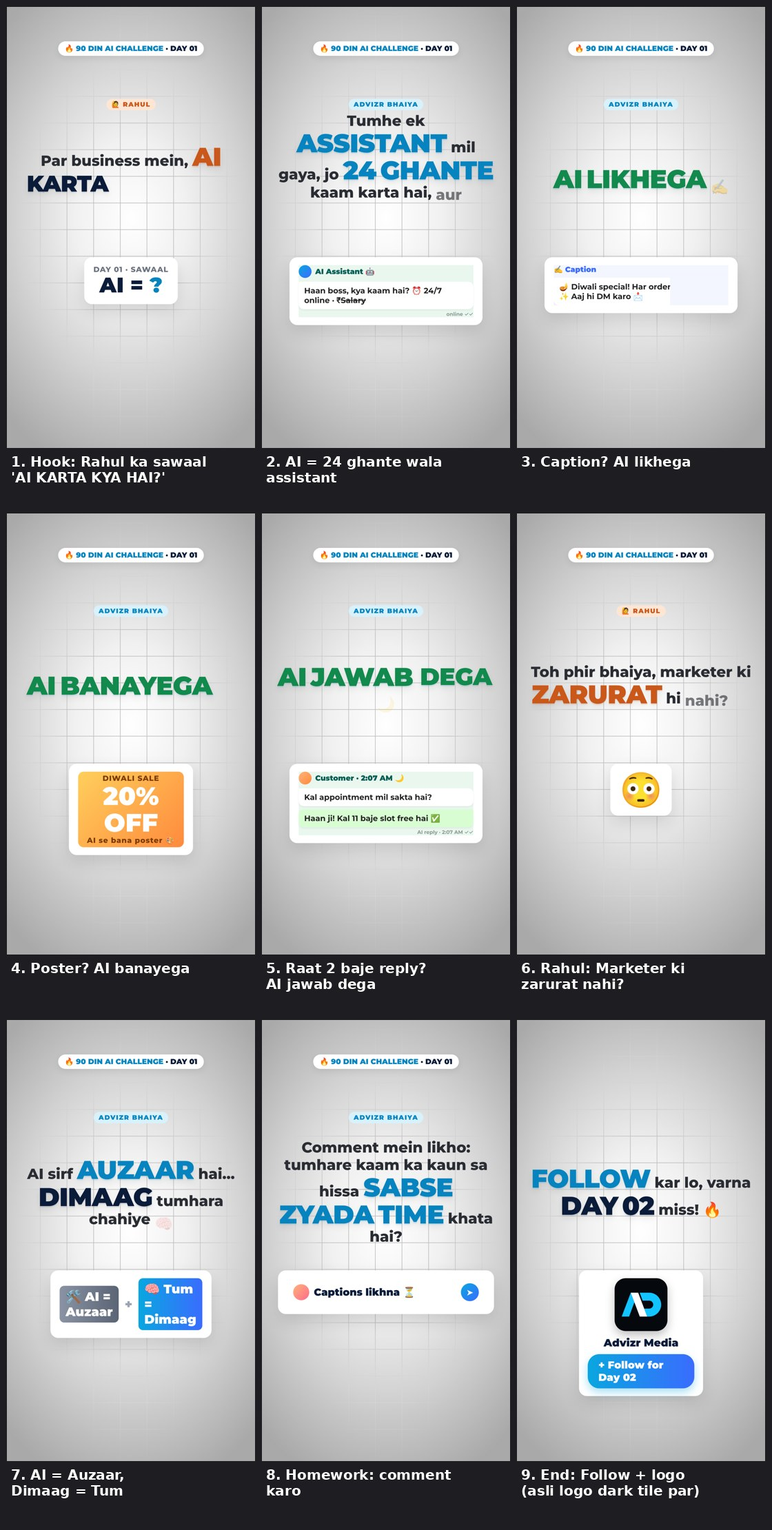
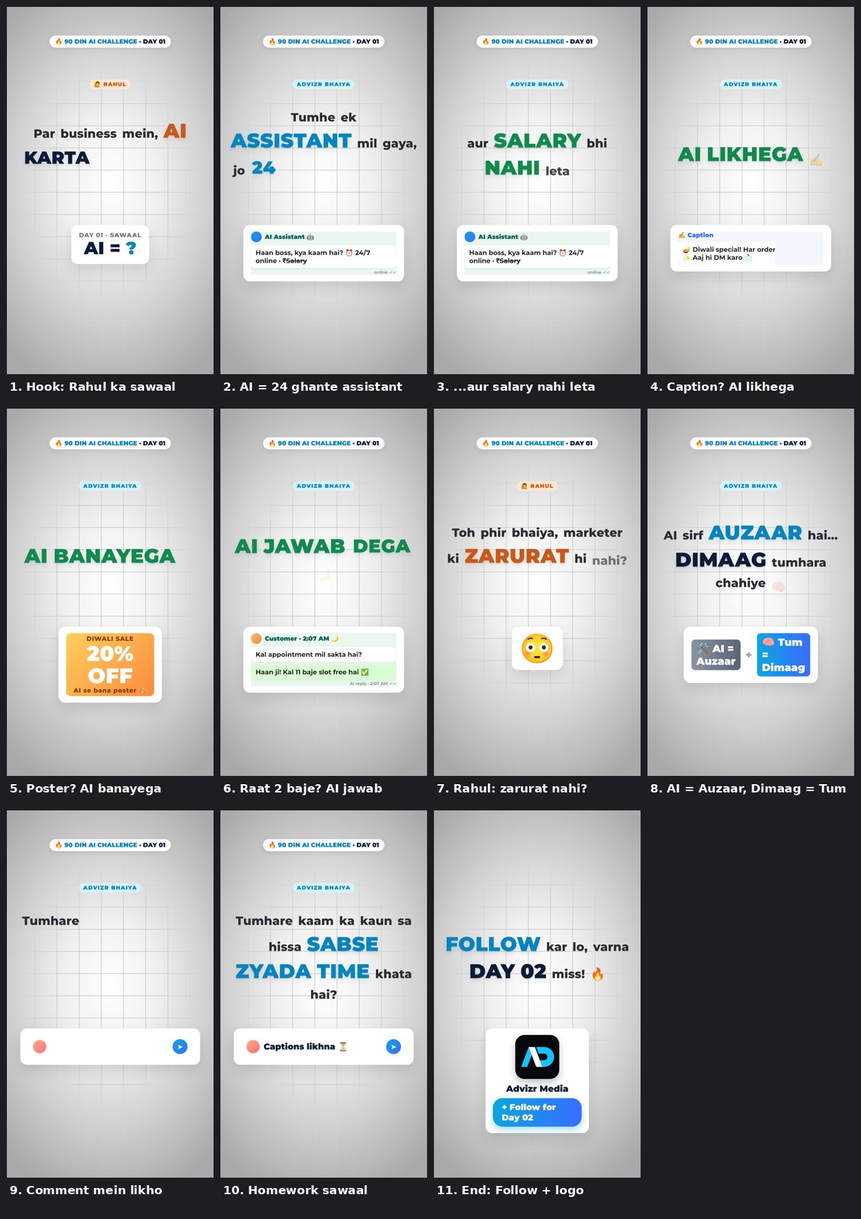
Day 1: more text spacing, split long phrases, updated storyboard
Claude-Session: https://claude.ai/code/session_017ZgdDbpTuAwDtUnpXNybdm

diff --git a/videos/advizr-ai-day01/index.html b/videos/advizr-ai-day01/index.html
@@ -20,16 +20,16 @@
       .grain { position: absolute; inset: 0; opacity: 0.25; background-image: radial-gradient(rgba(0,0,0,0.035) 1px, transparent 1.4px); background-size: 5px 5px; }
       .pill { position: absolute; left: 50%; top: 150px; transform: translateX(-50%); padding: 12px 28px; border-radius: 40px; background: #fff; box-shadow: 0 10px 30px rgba(0,0,0,0.08); font-weight: 900; font-size: 32px; color: var(--navy); white-space: nowrap; z-index: 5; }
       .pill b { color: var(--acc); }
-      .tb { position: absolute; left: 60px; right: 60px; top: 470px; height: 560px; display: flex; flex-wrap: wrap; align-content: center; justify-content: center; align-items: baseline; column-gap: 18px; row-gap: 4px; text-align: center; z-index: 4; }
-      .tb .w { display: inline-block; font-weight: 800; font-size: 64px; line-height: 1.12; color: var(--ink); }
-      .tb .w.k { font-weight: 900; font-size: 112px; line-height: 1.02; color: var(--acc); letter-spacing: -2px; text-shadow: 0 6px 0 rgba(7,132,191,0.12), 0 14px 30px rgba(0,0,0,0.08); }
+      .tb { position: absolute; left: 50px; right: 50px; top: 480px; height: 580px; display: flex; flex-wrap: wrap; align-content: center; justify-content: center; align-items: baseline; column-gap: 28px; row-gap: 22px; text-align: center; z-index: 4; }
+      .tb .w { display: inline-block; font-weight: 800; font-size: 62px; line-height: 1.3; letter-spacing: 0.5px; color: var(--ink); }
+      .tb .w.k { font-weight: 900; font-size: 104px; line-height: 1.15; color: var(--acc); letter-spacing: 1px; text-shadow: 0 6px 0 rgba(7,132,191,0.12), 0 14px 30px rgba(0,0,0,0.08); }
       .tb.r .w.k { color: var(--org); text-shadow: 0 6px 0 rgba(201,88,26,0.14), 0 14px 30px rgba(0,0,0,0.08); }
       .tb .w.k.n { color: var(--navy); text-shadow: 0 6px 0 rgba(11,27,58,0.1), 0 14px 30px rgba(0,0,0,0.08); }
       .tb .w.k.g { color: var(--green); }
-      .who { position: absolute; left: 50%; top: 400px; transform: translateX(-50%); padding: 8px 22px; border-radius: 30px; font-weight: 900; font-size: 28px; letter-spacing: 3px; z-index: 5; white-space: nowrap; }
+      .who { position: absolute; left: 50%; top: 380px; transform: translateX(-50%); padding: 8px 22px; border-radius: 30px; font-weight: 900; font-size: 28px; letter-spacing: 3px; z-index: 5; white-space: nowrap; }
       .who.r { background: #ffe6d4; color: var(--org); }
       .who.b { background: #d8f1fb; color: var(--acc); }
-      .card { position: absolute; left: 50%; top: 1090px; transform: translateX(-50%); background: #fff; border-radius: 34px; box-shadow: 0 30px 70px rgba(0,0,0,0.12), 0 2px 0 rgba(255,255,255,0.8) inset; padding: 34px 40px; z-index: 3; }
+      .card { position: absolute; left: 50%; top: 1140px; transform: translateX(-50%); background: #fff; border-radius: 34px; box-shadow: 0 30px 70px rgba(0,0,0,0.12), 0 2px 0 rgba(255,255,255,0.8) inset; padding: 34px 40px; z-index: 3; }
       .ct { text-align: center; }
       .ct .s { font-weight: 800; font-size: 32px; color: #6b7280; letter-spacing: 2px; }
       .ct .t { font-weight: 900; font-size: 92px; color: var(--navy); line-height: 1.05; }
@@ -81,19 +81,21 @@
       <div id="ph0" class="clip tb r" data-start="0.38" data-duration="2.94" data-track-index="4" style=""><span class="w" id="p0w0">Bhaiya,</span><span class="w" id="p0w1">sab</span><span class="w" id="p0w2">bol</span><span class="w" id="p0w3">rahe</span><span class="w" id="p0w4">hain:</span><span class="w k" id="p0w5">AI</span><span class="w k" id="p0w6">SEEKHO!</span></div>
       <div id="ph1" class="clip tb r" data-start="3.33" data-duration="2.48" data-track-index="4" style=""><span class="w" id="p1w0">Par</span><span class="w" id="p1w1">business</span><span class="w" id="p1w2">mein,</span><span class="w k" id="p1w3">AI</span><span class="w k n" id="p1w4">KARTA</span><span class="w k n" id="p1w5">KYA</span><span class="w k n" id="p1w6">HAI?</span><span class="w" id="p1w7">🤔</span></div>
       <div id="ph2" class="clip tb b" data-start="5.88" data-duration="0.75" data-track-index="4" style=""><span class="w k n" id="p2w0">SOCHO...</span></div>
-      <div id="ph3" class="clip tb b" data-start="6.64" data-duration="4.92" data-track-index="4" style=""><span class="w" id="p3w0">Tumhe</span><span class="w" id="p3w1">ek</span><span class="w k" id="p3w2">ASSISTANT</span><span class="w" id="p3w3">mil</span><span class="w" id="p3w4">gaya,</span><span class="w" id="p3w5">jo</span><span class="w k" id="p3w6">24</span><span class="w k" id="p3w7">GHANTE</span><span class="w" id="p3w8">kaam</span><span class="w" id="p3w9">karta</span><span class="w" id="p3w10">hai,</span><span class="w" id="p3w11">aur</span><span class="w k g" id="p3w12">SALARY</span><span class="w" id="p3w13">bhi</span><span class="w" id="p3w14">nahi</span><span class="w" id="p3w15">leta</span><span class="w" id="p3w16">😎</span></div>
-      <div id="ph4" class="clip tb b" data-start="11.63" data-duration="1.46" data-track-index="4" style=""><span class="w" id="p4w0">Post</span><span class="w" id="p4w1">ka</span><span class="w k" id="p4w2">CAPTION</span><span class="w" id="p4w3">likhna</span><span class="w" id="p4w4">hai?</span></div>
-      <div id="ph5" class="clip tb b" data-start="13.1" data-duration="0.92" data-track-index="4" style=""><span class="w k g" id="p5w0">AI</span><span class="w k g" id="p5w1">LIKHEGA</span><span class="w" id="p5w2">✍</span></div>
-      <div id="ph6" class="clip tb b" data-start="14.09" data-duration="1.73" data-track-index="4" style=""><span class="w" id="p6w0">Offer</span><span class="w" id="p6w1">ka</span><span class="w k" id="p6w2">POSTER</span><span class="w" id="p6w3">banana</span><span class="w" id="p6w4">hai?</span></div>
-      <div id="ph7" class="clip tb b" data-start="15.83" data-duration="0.97" data-track-index="4" style=""><span class="w k g" id="p7w0">AI</span><span class="w k g" id="p7w1">BANAYEGA</span><span class="w" id="p7w2">🎨</span></div>
-      <div id="ph8" class="clip tb b" data-start="16.87" data-duration="2.03" data-track-index="4" style=""><span class="w" id="p8w0">Raat</span><span class="w k" id="p8w1">2</span><span class="w k" id="p8w2">BAJE</span><span class="w" id="p8w3">customer</span><span class="w" id="p8w4">ka</span><span class="w" id="p8w5">message?</span></div>
-      <div id="ph9" class="clip tb b" data-start="18.91" data-duration="1.13" data-track-index="4" style=""><span class="w k g" id="p9w0">AI</span><span class="w k g" id="p9w1">JAWAB</span><span class="w k g" id="p9w2">DEGA</span><span class="w" id="p9w3">🌙</span></div>
-      <div id="ph10" class="clip tb r" data-start="20.11" data-duration="2.47" data-track-index="4" style=""><span class="w" id="p10w0">Toh</span><span class="w" id="p10w1">phir</span><span class="w" id="p10w2">bhaiya,</span><span class="w" id="p10w3">marketer</span><span class="w" id="p10w4">ki</span><span class="w k" id="p10w5">ZARURAT</span><span class="w" id="p10w6">hi</span><span class="w" id="p10w7">nahi?</span><span class="w" id="p10w8">😳</span></div>
-      <div id="ph11" class="clip tb b" data-start="22.65" data-duration="1.42" data-track-index="4" style=""><span class="w k n" id="p11w0">ZARURAT</span><span class="w k n" id="p11w1">HAI!</span></div>
-      <div id="ph12" class="clip tb b" data-start="24.08" data-duration="3.11" data-track-index="4" style=""><span class="w" id="p12w0">AI</span><span class="w" id="p12w1">sirf</span><span class="w k" id="p12w2">AUZAAR</span><span class="w" id="p12w3">hai...</span><span class="w k n" id="p12w4">DIMAAG</span><span class="w" id="p12w5">tumhara</span><span class="w" id="p12w6">chahiye</span><span class="w" id="p12w7">🧠</span></div>
-      <div id="ph13" class="clip tb b" data-start="27.26" data-duration="1.26" data-track-index="4" style=""><span class="w" id="p13w0">Aaj</span><span class="w" id="p13w1">ka</span><span class="w k" id="p13w2">HOMEWORK</span><span class="w" id="p13w3">📝</span></div>
-      <div id="ph14" class="clip tb b" data-start="28.53" data-duration="5.11" data-track-index="4" style=""><span class="w" id="p14w0">Comment</span><span class="w" id="p14w1">mein</span><span class="w" id="p14w2">likho:</span><span class="w" id="p14w3">tumhare</span><span class="w" id="p14w4">kaam</span><span class="w" id="p14w5">ka</span><span class="w" id="p14w6">kaun</span><span class="w" id="p14w7">sa</span><span class="w" id="p14w8">hissa</span><span class="w k" id="p14w9">SABSE</span><span class="w k" id="p14w10">ZYADA</span><span class="w k" id="p14w11">TIME</span><span class="w" id="p14w12">khata</span><span class="w" id="p14w13">hai?</span></div>
-      <div id="ph15" class="clip tb b" data-start="33.62" data-duration="3.02" data-track-index="4" style=""><span class="w k" id="p15w0">FOLLOW</span><span class="w" id="p15w1">kar</span><span class="w" id="p15w2">lo,</span><span class="w" id="p15w3">varna</span><span class="w k n" id="p15w4">DAY</span><span class="w k n" id="p15w5">02</span><span class="w" id="p15w6">miss!</span><span class="w" id="p15w7">🔥</span></div>
+      <div id="ph3" class="clip tb b" data-start="6.64" data-duration="3.43" data-track-index="4" style=""><span class="w" id="p3w0">Tumhe</span><span class="w" id="p3w1">ek</span><span class="w k" id="p3w2">ASSISTANT</span><span class="w" id="p3w3">mil</span><span class="w" id="p3w4">gaya,</span><span class="w" id="p3w5">jo</span><span class="w k" id="p3w6">24</span><span class="w k" id="p3w7">GHANTE</span><span class="w" id="p3w8">kaam</span><span class="w" id="p3w9">karta</span><span class="w" id="p3w10">hai</span></div>
+      <div id="ph4" class="clip tb b" data-start="10.08" data-duration="1.48" data-track-index="4" style=""><span class="w" id="p4w0">aur</span><span class="w k g" id="p4w1">SALARY</span><span class="w" id="p4w2">bhi</span><span class="w k g" id="p4w3">NAHI</span><span class="w" id="p4w4">leta</span><span class="w" id="p4w5">😎</span></div>
+      <div id="ph5" class="clip tb b" data-start="11.63" data-duration="1.46" data-track-index="4" style=""><span class="w" id="p5w0">Post</span><span class="w" id="p5w1">ka</span><span class="w k" id="p5w2">CAPTION</span><span class="w" id="p5w3">likhna</span><span class="w" id="p5w4">hai?</span></div>
+      <div id="ph6" class="clip tb b" data-start="13.1" data-duration="0.92" data-track-index="4" style=""><span class="w k g" id="p6w0">AI</span><span class="w k g" id="p6w1">LIKHEGA</span><span class="w" id="p6w2">✍</span></div>
+      <div id="ph7" class="clip tb b" data-start="14.09" data-duration="1.73" data-track-index="4" style=""><span class="w" id="p7w0">Offer</span><span class="w" id="p7w1">ka</span><span class="w k" id="p7w2">POSTER</span><span class="w" id="p7w3">banana</span><span class="w" id="p7w4">hai?</span></div>
+      <div id="ph8" class="clip tb b" data-start="15.83" data-duration="0.97" data-track-index="4" style=""><span class="w k g" id="p8w0">AI</span><span class="w k g" id="p8w1">BANAYEGA</span><span class="w" id="p8w2">🎨</span></div>
+      <div id="ph9" class="clip tb b" data-start="16.87" data-duration="2.03" data-track-index="4" style=""><span class="w" id="p9w0">Raat</span><span class="w k" id="p9w1">2</span><span class="w k" id="p9w2">BAJE</span><span class="w" id="p9w3">customer</span><span class="w" id="p9w4">ka</span><span class="w" id="p9w5">message?</span></div>
+      <div id="ph10" class="clip tb b" data-start="18.91" data-duration="1.13" data-track-index="4" style=""><span class="w k g" id="p10w0">AI</span><span class="w k g" id="p10w1">JAWAB</span><span class="w k g" id="p10w2">DEGA</span><span class="w" id="p10w3">🌙</span></div>
+      <div id="ph11" class="clip tb r" data-start="20.11" data-duration="2.47" data-track-index="4" style=""><span class="w" id="p11w0">Toh</span><span class="w" id="p11w1">phir</span><span class="w" id="p11w2">bhaiya,</span><span class="w" id="p11w3">marketer</span><span class="w" id="p11w4">ki</span><span class="w k" id="p11w5">ZARURAT</span><span class="w" id="p11w6">hi</span><span class="w" id="p11w7">nahi?</span><span class="w" id="p11w8">😳</span></div>
+      <div id="ph12" class="clip tb b" data-start="22.65" data-duration="1.42" data-track-index="4" style=""><span class="w k n" id="p12w0">ZARURAT</span><span class="w k n" id="p12w1">HAI!</span></div>
+      <div id="ph13" class="clip tb b" data-start="24.08" data-duration="3.11" data-track-index="4" style=""><span class="w" id="p13w0">AI</span><span class="w" id="p13w1">sirf</span><span class="w k" id="p13w2">AUZAAR</span><span class="w" id="p13w3">hai...</span><span class="w k n" id="p13w4">DIMAAG</span><span class="w" id="p13w5">tumhara</span><span class="w" id="p13w6">chahiye</span><span class="w" id="p13w7">🧠</span></div>
+      <div id="ph14" class="clip tb b" data-start="27.26" data-duration="1.26" data-track-index="4" style=""><span class="w" id="p14w0">Aaj</span><span class="w" id="p14w1">ka</span><span class="w k" id="p14w2">HOMEWORK</span><span class="w" id="p14w3">📝</span></div>
+      <div id="ph15" class="clip tb b" data-start="28.53" data-duration="1.1" data-track-index="4" style=""><span class="w" id="p15w0">Comment</span><span class="w" id="p15w1">mein</span><span class="w" id="p15w2">likho</span><span class="w" id="p15w3">👇</span></div>
+      <div id="ph16" class="clip tb b" data-start="29.64" data-duration="4.0" data-track-index="4" style=""><span class="w" id="p16w0">Tumhare</span><span class="w" id="p16w1">kaam</span><span class="w" id="p16w2">ka</span><span class="w" id="p16w3">kaun</span><span class="w" id="p16w4">sa</span><span class="w" id="p16w5">hissa</span><span class="w k" id="p16w6">SABSE</span><span class="w k" id="p16w7">ZYADA</span><span class="w k" id="p16w8">TIME</span><span class="w" id="p16w9">khata</span><span class="w" id="p16w10">hai?</span></div>
+      <div id="ph17" class="clip tb b" data-start="33.62" data-duration="3.02" data-track-index="4" style=""><span class="w k" id="p17w0">FOLLOW</span><span class="w" id="p17w1">kar</span><span class="w" id="p17w2">lo,</span><span class="w" id="p17w3">varna</span><span class="w k n" id="p17w4">DAY</span><span class="w k n" id="p17w5">02</span><span class="w" id="p17w6">miss!</span><span class="w" id="p17w7">🔥</span></div>
       <div id="cd0" class="clip card" data-start="3.6" data-duration="3.26" data-track-index="3" style=""><div class="ct"><div class="s">DAY 01 · SAWAAL</div><div class="t">AI = <b>?</b></div></div></div>
       <div id="cd1" class="clip card" data-start="6.91" data-duration="4.94" data-track-index="3" style=""><div class="wa"><div class="hd"><div class="av" style="background:linear-gradient(135deg,#0aa6e0,#3a6cff)"></div>AI Assistant 🤖</div><div class="msg">Haan boss, kya kaam hai? ⏰ 24/7 online · ₹<s>Salary</s></div><div class="tm">online ✓✓</div></div></div>
       <div id="cd2" class="clip card" data-start="11.9" data-duration="2.41" data-track-index="3" style=""><div class="wa" style="background:#f3f6ff"><div class="hd" style="color:#3a6cff">✍ Caption</div><div class="msg" id="cap1">🪔 Diwali special! Har order pe 10% OFF ✨ Aaj hi DM karo 📩</div></div></div>
@@ -122,40 +124,41 @@
       <audio id="sfx-p6" src="assets/sfx/pop.wav" data-start="4.94" data-duration="0.18" data-track-index="41" data-volume="0.12"></audio>
       <audio id="sfx-p7" src="assets/sfx/pop.wav" data-start="5.9" data-duration="0.18" data-track-index="42" data-volume="0.12"></audio>
       <audio id="sfx-p8" src="assets/sfx/pop.wav" data-start="6.91" data-duration="0.18" data-track-index="43" data-volume="0.12"></audio>
-      <audio id="sfx-p9" src="assets/sfx/pop.wav" data-start="7.1" data-duration="0.18" data-track-index="41" data-volume="0.12"></audio>
-      <audio id="sfx-p10" src="assets/sfx/pop.wav" data-start="8.19" data-duration="0.18" data-track-index="42" data-volume="0.12"></audio>
-      <audio id="sfx-p11" src="assets/sfx/pop.wav" data-start="8.35" data-duration="0.18" data-track-index="43" data-volume="0.12"></audio>
-      <audio id="sfx-p12" src="assets/sfx/pop.wav" data-start="9.64" data-duration="0.18" data-track-index="41" data-volume="0.12"></audio>
-      <audio id="sfx-p13" src="assets/sfx/pop.wav" data-start="11.9" data-duration="0.18" data-track-index="42" data-volume="0.12"></audio>
-      <audio id="sfx-p14" src="assets/sfx/pop.wav" data-start="12.04" data-duration="0.18" data-track-index="43" data-volume="0.12"></audio>
-      <audio id="sfx-p15" src="assets/sfx/pop.wav" data-start="13.12" data-duration="0.18" data-track-index="41" data-volume="0.12"></audio>
-      <audio id="sfx-p16" src="assets/sfx/pop.wav" data-start="13.26" data-duration="0.18" data-track-index="42" data-volume="0.12"></audio>
-      <audio id="sfx-p17" src="assets/sfx/pop.wav" data-start="14.36" data-duration="0.18" data-track-index="43" data-volume="0.12"></audio>
-      <audio id="sfx-p18" src="assets/sfx/pop.wav" data-start="14.62" data-duration="0.18" data-track-index="41" data-volume="0.12"></audio>
-      <audio id="sfx-p19" src="assets/sfx/pop.wav" data-start="15.85" data-duration="0.18" data-track-index="42" data-volume="0.12"></audio>
-      <audio id="sfx-p20" src="assets/sfx/pop.wav" data-start="16.0" data-duration="0.18" data-track-index="43" data-volume="0.12"></audio>
-      <audio id="sfx-p21" src="assets/sfx/pop.wav" data-start="17.14" data-duration="0.18" data-track-index="41" data-volume="0.12"></audio>
-      <audio id="sfx-p22" src="assets/sfx/pop.wav" data-start="17.17" data-duration="0.18" data-track-index="42" data-volume="0.12"></audio>
-      <audio id="sfx-p23" src="assets/sfx/pop.wav" data-start="17.3" data-duration="0.18" data-track-index="43" data-volume="0.12"></audio>
-      <audio id="sfx-p24" src="assets/sfx/pop.wav" data-start="18.93" data-duration="0.18" data-track-index="41" data-volume="0.12"></audio>
-      <audio id="sfx-p25" src="assets/sfx/pop.wav" data-start="19.08" data-duration="0.18" data-track-index="42" data-volume="0.12"></audio>
-      <audio id="sfx-p26" src="assets/sfx/pop.wav" data-start="19.36" data-duration="0.18" data-track-index="43" data-volume="0.12"></audio>
-      <audio id="sfx-p27" src="assets/sfx/pop.wav" data-start="20.38" data-duration="0.18" data-track-index="41" data-volume="0.12"></audio>
-      <audio id="sfx-p28" src="assets/sfx/pop.wav" data-start="21.3" data-duration="0.18" data-track-index="42" data-volume="0.12"></audio>
-      <audio id="sfx-p29" src="assets/sfx/pop.wav" data-start="22.67" data-duration="0.18" data-track-index="43" data-volume="0.12"></audio>
-      <audio id="sfx-p30" src="assets/sfx/pop.wav" data-start="23.43" data-duration="0.18" data-track-index="41" data-volume="0.12"></audio>
-      <audio id="sfx-p31" src="assets/sfx/pop.wav" data-start="24.35" data-duration="0.18" data-track-index="42" data-volume="0.12"></audio>
-      <audio id="sfx-p32" src="assets/sfx/pop.wav" data-start="24.56" data-duration="0.18" data-track-index="43" data-volume="0.12"></audio>
-      <audio id="sfx-p33" src="assets/sfx/pop.wav" data-start="25.29" data-duration="0.18" data-track-index="41" data-volume="0.12"></audio>
-      <audio id="sfx-p34" src="assets/sfx/pop.wav" data-start="27.74" data-duration="0.18" data-track-index="42" data-volume="0.12"></audio>
-      <audio id="sfx-p35" src="assets/sfx/pop.wav" data-start="28.8" data-duration="0.18" data-track-index="43" data-volume="0.12"></audio>
-      <audio id="sfx-p36" src="assets/sfx/pop.wav" data-start="31.26" data-duration="0.18" data-track-index="41" data-volume="0.12"></audio>
-      <audio id="sfx-p37" src="assets/sfx/pop.wav" data-start="31.59" data-duration="0.18" data-track-index="42" data-volume="0.12"></audio>
-      <audio id="sfx-p38" src="assets/sfx/pop.wav" data-start="31.91" data-duration="0.18" data-track-index="43" data-volume="0.12"></audio>
-      <audio id="sfx-p39" src="assets/sfx/pop.wav" data-start="33.64" data-duration="0.18" data-track-index="41" data-volume="0.12"></audio>
-      <audio id="sfx-p40" src="assets/sfx/pop.wav" data-start="33.89" data-duration="0.18" data-track-index="42" data-volume="0.12"></audio>
-      <audio id="sfx-p41" src="assets/sfx/pop.wav" data-start="34.24" data-duration="0.18" data-track-index="43" data-volume="0.12"></audio>
-      <audio id="sfx-p42" src="assets/sfx/pop.wav" data-start="34.36" data-duration="0.18" data-track-index="41" data-volume="0.12"></audio>
+      <audio id="sfx-p9" src="assets/sfx/pop.wav" data-start="7.15" data-duration="0.18" data-track-index="41" data-volume="0.12"></audio>
+      <audio id="sfx-p10" src="assets/sfx/pop.wav" data-start="8.35" data-duration="0.18" data-track-index="42" data-volume="0.12"></audio>
+      <audio id="sfx-p11" src="assets/sfx/pop.wav" data-start="8.53" data-duration="0.18" data-track-index="43" data-volume="0.12"></audio>
+      <audio id="sfx-p12" src="assets/sfx/pop.wav" data-start="10.26" data-duration="0.18" data-track-index="41" data-volume="0.12"></audio>
+      <audio id="sfx-p13" src="assets/sfx/pop.wav" data-start="10.69" data-duration="0.18" data-track-index="42" data-volume="0.12"></audio>
+      <audio id="sfx-p14" src="assets/sfx/pop.wav" data-start="11.9" data-duration="0.18" data-track-index="43" data-volume="0.12"></audio>
+      <audio id="sfx-p15" src="assets/sfx/pop.wav" data-start="12.04" data-duration="0.18" data-track-index="41" data-volume="0.12"></audio>
+      <audio id="sfx-p16" src="assets/sfx/pop.wav" data-start="13.12" data-duration="0.18" data-track-index="42" data-volume="0.12"></audio>
+      <audio id="sfx-p17" src="assets/sfx/pop.wav" data-start="13.26" data-duration="0.18" data-track-index="43" data-volume="0.12"></audio>
+      <audio id="sfx-p18" src="assets/sfx/pop.wav" data-start="14.36" data-duration="0.18" data-track-index="41" data-volume="0.12"></audio>
+      <audio id="sfx-p19" src="assets/sfx/pop.wav" data-start="14.62" data-duration="0.18" data-track-index="42" data-volume="0.12"></audio>
+      <audio id="sfx-p20" src="assets/sfx/pop.wav" data-start="15.85" data-duration="0.18" data-track-index="43" data-volume="0.12"></audio>
+      <audio id="sfx-p21" src="assets/sfx/pop.wav" data-start="16.0" data-duration="0.18" data-track-index="41" data-volume="0.12"></audio>
+      <audio id="sfx-p22" src="assets/sfx/pop.wav" data-start="17.14" data-duration="0.18" data-track-index="42" data-volume="0.12"></audio>
+      <audio id="sfx-p23" src="assets/sfx/pop.wav" data-start="17.17" data-duration="0.18" data-track-index="43" data-volume="0.12"></audio>
+      <audio id="sfx-p24" src="assets/sfx/pop.wav" data-start="17.3" data-duration="0.18" data-track-index="41" data-volume="0.12"></audio>
+      <audio id="sfx-p25" src="assets/sfx/pop.wav" data-start="18.93" data-duration="0.18" data-track-index="42" data-volume="0.12"></audio>
+      <audio id="sfx-p26" src="assets/sfx/pop.wav" data-start="19.08" data-duration="0.18" data-track-index="43" data-volume="0.12"></audio>
+      <audio id="sfx-p27" src="assets/sfx/pop.wav" data-start="19.36" data-duration="0.18" data-track-index="41" data-volume="0.12"></audio>
+      <audio id="sfx-p28" src="assets/sfx/pop.wav" data-start="20.38" data-duration="0.18" data-track-index="42" data-volume="0.12"></audio>
+      <audio id="sfx-p29" src="assets/sfx/pop.wav" data-start="21.3" data-duration="0.18" data-track-index="43" data-volume="0.12"></audio>
+      <audio id="sfx-p30" src="assets/sfx/pop.wav" data-start="22.67" data-duration="0.18" data-track-index="41" data-volume="0.12"></audio>
+      <audio id="sfx-p31" src="assets/sfx/pop.wav" data-start="23.43" data-duration="0.18" data-track-index="42" data-volume="0.12"></audio>
+      <audio id="sfx-p32" src="assets/sfx/pop.wav" data-start="24.35" data-duration="0.18" data-track-index="43" data-volume="0.12"></audio>
+      <audio id="sfx-p33" src="assets/sfx/pop.wav" data-start="24.56" data-duration="0.18" data-track-index="41" data-volume="0.12"></audio>
+      <audio id="sfx-p34" src="assets/sfx/pop.wav" data-start="25.29" data-duration="0.18" data-track-index="42" data-volume="0.12"></audio>
+      <audio id="sfx-p35" src="assets/sfx/pop.wav" data-start="27.74" data-duration="0.18" data-track-index="43" data-volume="0.12"></audio>
+      <audio id="sfx-p36" src="assets/sfx/pop.wav" data-start="28.8" data-duration="0.18" data-track-index="41" data-volume="0.12"></audio>
+      <audio id="sfx-p37" src="assets/sfx/pop.wav" data-start="31.36" data-duration="0.18" data-track-index="42" data-volume="0.12"></audio>
+      <audio id="sfx-p38" src="assets/sfx/pop.wav" data-start="31.69" data-duration="0.18" data-track-index="43" data-volume="0.12"></audio>
+      <audio id="sfx-p39" src="assets/sfx/pop.wav" data-start="32.02" data-duration="0.18" data-track-index="41" data-volume="0.12"></audio>
+      <audio id="sfx-p40" src="assets/sfx/pop.wav" data-start="33.64" data-duration="0.18" data-track-index="42" data-volume="0.12"></audio>
+      <audio id="sfx-p41" src="assets/sfx/pop.wav" data-start="33.89" data-duration="0.18" data-track-index="43" data-volume="0.12"></audio>
+      <audio id="sfx-p42" src="assets/sfx/pop.wav" data-start="34.24" data-duration="0.18" data-track-index="41" data-volume="0.12"></audio>
+      <audio id="sfx-p43" src="assets/sfx/pop.wav" data-start="34.36" data-duration="0.18" data-track-index="42" data-volume="0.12"></audio>
     </div>
     <script>
       window.__timelines = window.__timelines || {};
@@ -185,93 +188,94 @@
       tl.fromTo("#p1w7",{opacity:0,y:26},{opacity:1,y:0,duration:0.22,ease:"power2.out"},5.19);
       tl.fromTo("#p2w0",{opacity:0,scale:1.8,y:10},{opacity:1,scale:1,y:0,duration:0.32,ease:"back.out(2.2)"},5.9);
       tl.fromTo("#p3w0",{opacity:0,y:26},{opacity:1,y:0,duration:0.22,ease:"power2.out"},6.66);
-      tl.fromTo("#p3w1",{opacity:0,y:26},{opacity:1,y:0,duration:0.22,ease:"power2.out"},6.94);
-      tl.fromTo("#p3w2",{opacity:0,scale:1.8,y:10},{opacity:1,scale:1,y:0,duration:0.32,ease:"back.out(2.2)"},7.1);
-      tl.fromTo("#p3w3",{opacity:0,y:26},{opacity:1,y:0,duration:0.22,ease:"power2.out"},7.55);
-      tl.fromTo("#p3w4",{opacity:0,y:26},{opacity:1,y:0,duration:0.22,ease:"power2.out"},7.75);
-      tl.fromTo("#p3w5",{opacity:0,y:26},{opacity:1,y:0,duration:0.22,ease:"power2.out"},8.03);
-      tl.fromTo("#p3w6",{opacity:0,scale:1.8,y:10},{opacity:1,scale:1,y:0,duration:0.32,ease:"back.out(2.2)"},8.19);
-      tl.fromTo("#p3w7",{opacity:0,scale:1.8,y:10},{opacity:1,scale:1,y:0,duration:0.32,ease:"back.out(2.2)"},8.35);
-      tl.fromTo("#p3w8",{opacity:0,y:26},{opacity:1,y:0,duration:0.22,ease:"power2.out"},8.67);
-      tl.fromTo("#p3w9",{opacity:0,y:26},{opacity:1,y:0,duration:0.22,ease:"power2.out"},8.92);
-      tl.fromTo("#p3w10",{opacity:0,y:26},{opacity:1,y:0,duration:0.22,ease:"power2.out"},9.2);
-      tl.fromTo("#p3w11",{opacity:0,y:26},{opacity:1,y:0,duration:0.22,ease:"power2.out"},9.44);
-      tl.fromTo("#p3w12",{opacity:0,scale:1.8,y:10},{opacity:1,scale:1,y:0,duration:0.32,ease:"back.out(2.2)"},9.64);
-      tl.fromTo("#p3w13",{opacity:0,y:26},{opacity:1,y:0,duration:0.22,ease:"power2.out"},9.96);
-      tl.fromTo("#p3w14",{opacity:0,y:26},{opacity:1,y:0,duration:0.22,ease:"power2.out"},10.17);
-      tl.fromTo("#p3w15",{opacity:0,y:26},{opacity:1,y:0,duration:0.22,ease:"power2.out"},10.41);
-      tl.fromTo("#p3w16",{opacity:0,y:26},{opacity:1,y:0,duration:0.22,ease:"power2.out"},10.65);
-      tl.fromTo("#p4w0",{opacity:0,y:26},{opacity:1,y:0,duration:0.22,ease:"power2.out"},11.65);
-      tl.fromTo("#p4w1",{opacity:0,y:26},{opacity:1,y:0,duration:0.22,ease:"power2.out"},11.89);
-      tl.fromTo("#p4w2",{opacity:0,scale:1.8,y:10},{opacity:1,scale:1,y:0,duration:0.32,ease:"back.out(2.2)"},12.04);
-      tl.fromTo("#p4w3",{opacity:0,y:26},{opacity:1,y:0,duration:0.22,ease:"power2.out"},12.39);
-      tl.fromTo("#p4w4",{opacity:0,y:26},{opacity:1,y:0,duration:0.22,ease:"power2.out"},12.71);
-      tl.fromTo("#p5w0",{opacity:0,scale:1.8,y:10},{opacity:1,scale:1,y:0,duration:0.32,ease:"back.out(2.2)"},13.12);
-      tl.fromTo("#p5w1",{opacity:0,scale:1.8,y:10},{opacity:1,scale:1,y:0,duration:0.32,ease:"back.out(2.2)"},13.26);
-      tl.fromTo("#p5w2",{opacity:0,y:26},{opacity:1,y:0,duration:0.22,ease:"power2.out"},13.57);
-      tl.fromTo("#p6w0",{opacity:0,y:26},{opacity:1,y:0,duration:0.22,ease:"power2.out"},14.11);
-      tl.fromTo("#p6w1",{opacity:0,y:26},{opacity:1,y:0,duration:0.22,ease:"power2.out"},14.43);
-      tl.fromTo("#p6w2",{opacity:0,scale:1.8,y:10},{opacity:1,scale:1,y:0,duration:0.32,ease:"back.out(2.2)"},14.62);
-      tl.fromTo("#p6w3",{opacity:0,y:26},{opacity:1,y:0,duration:0.22,ease:"power2.out"},14.99);
-      tl.fromTo("#p6w4",{opacity:0,y:26},{opacity:1,y:0,duration:0.22,ease:"power2.out"},15.36);
-      tl.fromTo("#p7w0",{opacity:0,scale:1.8,y:10},{opacity:1,scale:1,y:0,duration:0.32,ease:"back.out(2.2)"},15.85);
-      tl.fromTo("#p7w1",{opacity:0,scale:1.8,y:10},{opacity:1,scale:1,y:0,duration:0.32,ease:"back.out(2.2)"},16.0);
-      tl.fromTo("#p7w2",{opacity:0,y:26},{opacity:1,y:0,duration:0.22,ease:"power2.out"},16.37);
-      tl.fromTo("#p8w0",{opacity:0,y:26},{opacity:1,y:0,duration:0.22,ease:"power2.out"},16.89);
-      tl.fromTo("#p8w1",{opacity:0,scale:1.8,y:10},{opacity:1,scale:1,y:0,duration:0.32,ease:"back.out(2.2)"},17.17);
-      tl.fromTo("#p8w2",{opacity:0,scale:1.8,y:10},{opacity:1,scale:1,y:0,duration:0.32,ease:"back.out(2.2)"},17.3);
-      tl.fromTo("#p8w3",{opacity:0,y:26},{opacity:1,y:0,duration:0.22,ease:"power2.out"},17.58);
-      tl.fromTo("#p8w4",{opacity:0,y:26},{opacity:1,y:0,duration:0.22,ease:"power2.out"},18.04);
-      tl.fromTo("#p8w5",{opacity:0,y:26},{opacity:1,y:0,duration:0.22,ease:"power2.out"},18.22);
-      tl.fromTo("#p9w0",{opacity:0,scale:1.8,y:10},{opacity:1,scale:1,y:0,duration:0.32,ease:"back.out(2.2)"},18.93);
-      tl.fromTo("#p9w1",{opacity:0,scale:1.8,y:10},{opacity:1,scale:1,y:0,duration:0.32,ease:"back.out(2.2)"},19.08);
-      tl.fromTo("#p9w2",{opacity:0,scale:1.8,y:10},{opacity:1,scale:1,y:0,duration:0.32,ease:"back.out(2.2)"},19.36);
-      tl.fromTo("#p9w3",{opacity:0,y:26},{opacity:1,y:0,duration:0.22,ease:"power2.out"},19.59);
-      tl.fromTo("#p10w0",{opacity:0,y:26},{opacity:1,y:0,duration:0.22,ease:"power2.out"},20.13);
-      tl.fromTo("#p10w1",{opacity:0,y:26},{opacity:1,y:0,duration:0.22,ease:"power2.out"},20.3);
-      tl.fromTo("#p10w2",{opacity:0,y:26},{opacity:1,y:0,duration:0.22,ease:"power2.out"},20.51);
-      tl.fromTo("#p10w3",{opacity:0,y:26},{opacity:1,y:0,duration:0.22,ease:"power2.out"},20.82);
-      tl.fromTo("#p10w4",{opacity:0,y:26},{opacity:1,y:0,duration:0.22,ease:"power2.out"},21.16);
-      tl.fromTo("#p10w5",{opacity:0,scale:1.8,y:10},{opacity:1,scale:1,y:0,duration:0.32,ease:"back.out(2.2)"},21.3);
-      tl.fromTo("#p10w6",{opacity:0,y:26},{opacity:1,y:0,duration:0.22,ease:"power2.out"},21.6);
-      tl.fromTo("#p10w7",{opacity:0,y:26},{opacity:1,y:0,duration:0.22,ease:"power2.out"},21.74);
-      tl.fromTo("#p10w8",{opacity:0,y:26},{opacity:1,y:0,duration:0.22,ease:"power2.out"},21.98);
-      tl.fromTo("#p11w0",{opacity:0,scale:1.8,y:10},{opacity:1,scale:1,y:0,duration:0.32,ease:"back.out(2.2)"},22.67);
-      tl.fromTo("#p11w1",{opacity:0,scale:1.8,y:10},{opacity:1,scale:1,y:0,duration:0.32,ease:"back.out(2.2)"},23.43);
-      tl.fromTo("#p12w0",{opacity:0,y:26},{opacity:1,y:0,duration:0.22,ease:"power2.out"},24.1);
-      tl.fromTo("#p12w1",{opacity:0,y:26},{opacity:1,y:0,duration:0.22,ease:"power2.out"},24.28);
-      tl.fromTo("#p12w2",{opacity:0,scale:1.8,y:10},{opacity:1,scale:1,y:0,duration:0.32,ease:"back.out(2.2)"},24.56);
-      tl.fromTo("#p12w3",{opacity:0,y:26},{opacity:1,y:0,duration:0.22,ease:"power2.out"},24.92);
-      tl.fromTo("#p12w4",{opacity:0,scale:1.8,y:10},{opacity:1,scale:1,y:0,duration:0.32,ease:"back.out(2.2)"},25.29);
-      tl.fromTo("#p12w5",{opacity:0,y:26},{opacity:1,y:0,duration:0.22,ease:"power2.out"},25.66);
-      tl.fromTo("#p12w6",{opacity:0,y:26},{opacity:1,y:0,duration:0.22,ease:"power2.out"},26.07);
-      tl.fromTo("#p12w7",{opacity:0,y:26},{opacity:1,y:0,duration:0.22,ease:"power2.out"},26.48);
-      tl.fromTo("#p13w0",{opacity:0,y:26},{opacity:1,y:0,duration:0.22,ease:"power2.out"},27.28);
-      tl.fromTo("#p13w1",{opacity:0,y:26},{opacity:1,y:0,duration:0.22,ease:"power2.out"},27.53);
-      tl.fromTo("#p13w2",{opacity:0,scale:1.8,y:10},{opacity:1,scale:1,y:0,duration:0.32,ease:"back.out(2.2)"},27.74);
-      tl.fromTo("#p13w3",{opacity:0,y:26},{opacity:1,y:0,duration:0.22,ease:"power2.out"},28.25);
-      tl.fromTo("#p14w0",{opacity:0,y:26},{opacity:1,y:0,duration:0.22,ease:"power2.out"},28.55);
-      tl.fromTo("#p14w1",{opacity:0,y:26},{opacity:1,y:0,duration:0.22,ease:"power2.out"},28.96);
-      tl.fromTo("#p14w2",{opacity:0,y:26},{opacity:1,y:0,duration:0.22,ease:"power2.out"},29.24);
-      tl.fromTo("#p14w3",{opacity:0,y:26},{opacity:1,y:0,duration:0.22,ease:"power2.out"},29.61);
-      tl.fromTo("#p14w4",{opacity:0,y:26},{opacity:1,y:0,duration:0.22,ease:"power2.out"},30.02);
-      tl.fromTo("#p14w5",{opacity:0,y:26},{opacity:1,y:0,duration:0.22,ease:"power2.out"},30.3);
-      tl.fromTo("#p14w6",{opacity:0,y:26},{opacity:1,y:0,duration:0.22,ease:"power2.out"},30.48);
-      tl.fromTo("#p14w7",{opacity:0,y:26},{opacity:1,y:0,duration:0.22,ease:"power2.out"},30.76);
-      tl.fromTo("#p14w8",{opacity:0,y:26},{opacity:1,y:0,duration:0.22,ease:"power2.out"},30.94);
-      tl.fromTo("#p14w9",{opacity:0,scale:1.8,y:10},{opacity:1,scale:1,y:0,duration:0.32,ease:"back.out(2.2)"},31.26);
-      tl.fromTo("#p14w10",{opacity:0,scale:1.8,y:10},{opacity:1,scale:1,y:0,duration:0.32,ease:"back.out(2.2)"},31.59);
-      tl.fromTo("#p14w11",{opacity:0,scale:1.8,y:10},{opacity:1,scale:1,y:0,duration:0.32,ease:"back.out(2.2)"},31.91);
-      tl.fromTo("#p14w12",{opacity:0,y:26},{opacity:1,y:0,duration:0.22,ease:"power2.out"},32.18);
-      tl.fromTo("#p14w13",{opacity:0,y:26},{opacity:1,y:0,duration:0.22,ease:"power2.out"},32.51);
-      tl.fromTo("#p15w0",{opacity:0,scale:1.8,y:10},{opacity:1,scale:1,y:0,duration:0.32,ease:"back.out(2.2)"},33.64);
-      tl.fromTo("#p15w1",{opacity:0,y:26},{opacity:1,y:0,duration:0.22,ease:"power2.out"},33.83);
-      tl.fromTo("#p15w2",{opacity:0,y:26},{opacity:1,y:0,duration:0.22,ease:"power2.out"},33.95);
-      tl.fromTo("#p15w3",{opacity:0,y:26},{opacity:1,y:0,duration:0.22,ease:"power2.out"},34.07);
-      tl.fromTo("#p15w4",{opacity:0,scale:1.8,y:10},{opacity:1,scale:1,y:0,duration:0.32,ease:"back.out(2.2)"},34.24);
-      tl.fromTo("#p15w5",{opacity:0,scale:1.8,y:10},{opacity:1,scale:1,y:0,duration:0.32,ease:"back.out(2.2)"},34.36);
-      tl.fromTo("#p15w6",{opacity:0,y:26},{opacity:1,y:0,duration:0.22,ease:"power2.out"},34.46);
-      tl.fromTo("#p15w7",{opacity:0,y:26},{opacity:1,y:0,duration:0.22,ease:"power2.out"},34.62);
+      tl.fromTo("#p3w1",{opacity:0,y:26},{opacity:1,y:0,duration:0.22,ease:"power2.out"},6.97);
+      tl.fromTo("#p3w2",{opacity:0,scale:1.8,y:10},{opacity:1,scale:1,y:0,duration:0.32,ease:"back.out(2.2)"},7.15);
+      tl.fromTo("#p3w3",{opacity:0,y:26},{opacity:1,y:0,duration:0.22,ease:"power2.out"},7.64);
+      tl.fromTo("#p3w4",{opacity:0,y:26},{opacity:1,y:0,duration:0.22,ease:"power2.out"},7.86);
+      tl.fromTo("#p3w5",{opacity:0,y:26},{opacity:1,y:0,duration:0.22,ease:"power2.out"},8.17);
+      tl.fromTo("#p3w6",{opacity:0,scale:1.8,y:10},{opacity:1,scale:1,y:0,duration:0.32,ease:"back.out(2.2)"},8.35);
+      tl.fromTo("#p3w7",{opacity:0,scale:1.8,y:10},{opacity:1,scale:1,y:0,duration:0.32,ease:"back.out(2.2)"},8.53);
+      tl.fromTo("#p3w8",{opacity:0,y:26},{opacity:1,y:0,duration:0.22,ease:"power2.out"},8.89);
+      tl.fromTo("#p3w9",{opacity:0,y:26},{opacity:1,y:0,duration:0.22,ease:"power2.out"},9.15);
+      tl.fromTo("#p3w10",{opacity:0,y:26},{opacity:1,y:0,duration:0.22,ease:"power2.out"},9.46);
+      tl.fromTo("#p4w0",{opacity:0,y:26},{opacity:1,y:0,duration:0.22,ease:"power2.out"},10.1);
+      tl.fromTo("#p4w1",{opacity:0,scale:1.8,y:10},{opacity:1,scale:1,y:0,duration:0.32,ease:"back.out(2.2)"},10.26);
+      tl.fromTo("#p4w2",{opacity:0,y:26},{opacity:1,y:0,duration:0.22,ease:"power2.out"},10.53);
+      tl.fromTo("#p4w3",{opacity:0,scale:1.8,y:10},{opacity:1,scale:1,y:0,duration:0.32,ease:"back.out(2.2)"},10.69);
+      tl.fromTo("#p4w4",{opacity:0,y:26},{opacity:1,y:0,duration:0.22,ease:"power2.out"},10.89);
+      tl.fromTo("#p4w5",{opacity:0,y:26},{opacity:1,y:0,duration:0.22,ease:"power2.out"},11.08);
+      tl.fromTo("#p5w0",{opacity:0,y:26},{opacity:1,y:0,duration:0.22,ease:"power2.out"},11.65);
+      tl.fromTo("#p5w1",{opacity:0,y:26},{opacity:1,y:0,duration:0.22,ease:"power2.out"},11.89);
+      tl.fromTo("#p5w2",{opacity:0,scale:1.8,y:10},{opacity:1,scale:1,y:0,duration:0.32,ease:"back.out(2.2)"},12.04);
+      tl.fromTo("#p5w3",{opacity:0,y:26},{opacity:1,y:0,duration:0.22,ease:"power2.out"},12.39);
+      tl.fromTo("#p5w4",{opacity:0,y:26},{opacity:1,y:0,duration:0.22,ease:"power2.out"},12.71);
+      tl.fromTo("#p6w0",{opacity:0,scale:1.8,y:10},{opacity:1,scale:1,y:0,duration:0.32,ease:"back.out(2.2)"},13.12);
+      tl.fromTo("#p6w1",{opacity:0,scale:1.8,y:10},{opacity:1,scale:1,y:0,duration:0.32,ease:"back.out(2.2)"},13.26);
+      tl.fromTo("#p6w2",{opacity:0,y:26},{opacity:1,y:0,duration:0.22,ease:"power2.out"},13.57);
+      tl.fromTo("#p7w0",{opacity:0,y:26},{opacity:1,y:0,duration:0.22,ease:"power2.out"},14.11);
+      tl.fromTo("#p7w1",{opacity:0,y:26},{opacity:1,y:0,duration:0.22,ease:"power2.out"},14.43);
+      tl.fromTo("#p7w2",{opacity:0,scale:1.8,y:10},{opacity:1,scale:1,y:0,duration:0.32,ease:"back.out(2.2)"},14.62);
+      tl.fromTo("#p7w3",{opacity:0,y:26},{opacity:1,y:0,duration:0.22,ease:"power2.out"},14.99);
+      tl.fromTo("#p7w4",{opacity:0,y:26},{opacity:1,y:0,duration:0.22,ease:"power2.out"},15.36);
+      tl.fromTo("#p8w0",{opacity:0,scale:1.8,y:10},{opacity:1,scale:1,y:0,duration:0.32,ease:"back.out(2.2)"},15.85);
+      tl.fromTo("#p8w1",{opacity:0,scale:1.8,y:10},{opacity:1,scale:1,y:0,duration:0.32,ease:"back.out(2.2)"},16.0);
+      tl.fromTo("#p8w2",{opacity:0,y:26},{opacity:1,y:0,duration:0.22,ease:"power2.out"},16.37);
+      tl.fromTo("#p9w0",{opacity:0,y:26},{opacity:1,y:0,duration:0.22,ease:"power2.out"},16.89);
+      tl.fromTo("#p9w1",{opacity:0,scale:1.8,y:10},{opacity:1,scale:1,y:0,duration:0.32,ease:"back.out(2.2)"},17.17);
+      tl.fromTo("#p9w2",{opacity:0,scale:1.8,y:10},{opacity:1,scale:1,y:0,duration:0.32,ease:"back.out(2.2)"},17.3);
+      tl.fromTo("#p9w3",{opacity:0,y:26},{opacity:1,y:0,duration:0.22,ease:"power2.out"},17.58);
+      tl.fromTo("#p9w4",{opacity:0,y:26},{opacity:1,y:0,duration:0.22,ease:"power2.out"},18.04);
+      tl.fromTo("#p9w5",{opacity:0,y:26},{opacity:1,y:0,duration:0.22,ease:"power2.out"},18.22);
+      tl.fromTo("#p10w0",{opacity:0,scale:1.8,y:10},{opacity:1,scale:1,y:0,duration:0.32,ease:"back.out(2.2)"},18.93);
+      tl.fromTo("#p10w1",{opacity:0,scale:1.8,y:10},{opacity:1,scale:1,y:0,duration:0.32,ease:"back.out(2.2)"},19.08);
+      tl.fromTo("#p10w2",{opacity:0,scale:1.8,y:10},{opacity:1,scale:1,y:0,duration:0.32,ease:"back.out(2.2)"},19.36);
+      tl.fromTo("#p10w3",{opacity:0,y:26},{opacity:1,y:0,duration:0.22,ease:"power2.out"},19.59);
+      tl.fromTo("#p11w0",{opacity:0,y:26},{opacity:1,y:0,duration:0.22,ease:"power2.out"},20.13);
+      tl.fromTo("#p11w1",{opacity:0,y:26},{opacity:1,y:0,duration:0.22,ease:"power2.out"},20.3);
+      tl.fromTo("#p11w2",{opacity:0,y:26},{opacity:1,y:0,duration:0.22,ease:"power2.out"},20.51);
+      tl.fromTo("#p11w3",{opacity:0,y:26},{opacity:1,y:0,duration:0.22,ease:"power2.out"},20.82);
+      tl.fromTo("#p11w4",{opacity:0,y:26},{opacity:1,y:0,duration:0.22,ease:"power2.out"},21.16);
+      tl.fromTo("#p11w5",{opacity:0,scale:1.8,y:10},{opacity:1,scale:1,y:0,duration:0.32,ease:"back.out(2.2)"},21.3);
+      tl.fromTo("#p11w6",{opacity:0,y:26},{opacity:1,y:0,duration:0.22,ease:"power2.out"},21.6);
+      tl.fromTo("#p11w7",{opacity:0,y:26},{opacity:1,y:0,duration:0.22,ease:"power2.out"},21.74);
+      tl.fromTo("#p11w8",{opacity:0,y:26},{opacity:1,y:0,duration:0.22,ease:"power2.out"},21.98);
+      tl.fromTo("#p12w0",{opacity:0,scale:1.8,y:10},{opacity:1,scale:1,y:0,duration:0.32,ease:"back.out(2.2)"},22.67);
+      tl.fromTo("#p12w1",{opacity:0,scale:1.8,y:10},{opacity:1,scale:1,y:0,duration:0.32,ease:"back.out(2.2)"},23.43);
+      tl.fromTo("#p13w0",{opacity:0,y:26},{opacity:1,y:0,duration:0.22,ease:"power2.out"},24.1);
+      tl.fromTo("#p13w1",{opacity:0,y:26},{opacity:1,y:0,duration:0.22,ease:"power2.out"},24.28);
+      tl.fromTo("#p13w2",{opacity:0,scale:1.8,y:10},{opacity:1,scale:1,y:0,duration:0.32,ease:"back.out(2.2)"},24.56);
+      tl.fromTo("#p13w3",{opacity:0,y:26},{opacity:1,y:0,duration:0.22,ease:"power2.out"},24.92);
+      tl.fromTo("#p13w4",{opacity:0,scale:1.8,y:10},{opacity:1,scale:1,y:0,duration:0.32,ease:"back.out(2.2)"},25.29);
+      tl.fromTo("#p13w5",{opacity:0,y:26},{opacity:1,y:0,duration:0.22,ease:"power2.out"},25.66);
+      tl.fromTo("#p13w6",{opacity:0,y:26},{opacity:1,y:0,duration:0.22,ease:"power2.out"},26.07);
+      tl.fromTo("#p13w7",{opacity:0,y:26},{opacity:1,y:0,duration:0.22,ease:"power2.out"},26.48);
+      tl.fromTo("#p14w0",{opacity:0,y:26},{opacity:1,y:0,duration:0.22,ease:"power2.out"},27.28);
+      tl.fromTo("#p14w1",{opacity:0,y:26},{opacity:1,y:0,duration:0.22,ease:"power2.out"},27.53);
+      tl.fromTo("#p14w2",{opacity:0,scale:1.8,y:10},{opacity:1,scale:1,y:0,duration:0.32,ease:"back.out(2.2)"},27.74);
+      tl.fromTo("#p14w3",{opacity:0,y:26},{opacity:1,y:0,duration:0.22,ease:"power2.out"},28.25);
+      tl.fromTo("#p15w0",{opacity:0,y:26},{opacity:1,y:0,duration:0.22,ease:"power2.out"},28.55);
+      tl.fromTo("#p15w1",{opacity:0,y:26},{opacity:1,y:0,duration:0.22,ease:"power2.out"},28.9);
+      tl.fromTo("#p15w2",{opacity:0,y:26},{opacity:1,y:0,duration:0.22,ease:"power2.out"},29.14);
+      tl.fromTo("#p15w3",{opacity:0,y:26},{opacity:1,y:0,duration:0.22,ease:"power2.out"},29.41);
+      tl.fromTo("#p16w0",{opacity:0,y:26},{opacity:1,y:0,duration:0.22,ease:"power2.out"},29.66);
+      tl.fromTo("#p16w1",{opacity:0,y:26},{opacity:1,y:0,duration:0.22,ease:"power2.out"},30.08);
+      tl.fromTo("#p16w2",{opacity:0,y:26},{opacity:1,y:0,duration:0.22,ease:"power2.out"},30.37);
+      tl.fromTo("#p16w3",{opacity:0,y:26},{opacity:1,y:0,duration:0.22,ease:"power2.out"},30.56);
+      tl.fromTo("#p16w4",{opacity:0,y:26},{opacity:1,y:0,duration:0.22,ease:"power2.out"},30.84);
+      tl.fromTo("#p16w5",{opacity:0,y:26},{opacity:1,y:0,duration:0.22,ease:"power2.out"},31.03);
+      tl.fromTo("#p16w6",{opacity:0,scale:1.8,y:10},{opacity:1,scale:1,y:0,duration:0.32,ease:"back.out(2.2)"},31.36);
+      tl.fromTo("#p16w7",{opacity:0,scale:1.8,y:10},{opacity:1,scale:1,y:0,duration:0.32,ease:"back.out(2.2)"},31.69);
+      tl.fromTo("#p16w8",{opacity:0,scale:1.8,y:10},{opacity:1,scale:1,y:0,duration:0.32,ease:"back.out(2.2)"},32.02);
+      tl.fromTo("#p16w9",{opacity:0,y:26},{opacity:1,y:0,duration:0.22,ease:"power2.out"},32.3);
+      tl.fromTo("#p16w10",{opacity:0,y:26},{opacity:1,y:0,duration:0.22,ease:"power2.out"},32.63);
+      tl.fromTo("#p17w0",{opacity:0,scale:1.8,y:10},{opacity:1,scale:1,y:0,duration:0.32,ease:"back.out(2.2)"},33.64);
+      tl.fromTo("#p17w1",{opacity:0,y:26},{opacity:1,y:0,duration:0.22,ease:"power2.out"},33.83);
+      tl.fromTo("#p17w2",{opacity:0,y:26},{opacity:1,y:0,duration:0.22,ease:"power2.out"},33.95);
+      tl.fromTo("#p17w3",{opacity:0,y:26},{opacity:1,y:0,duration:0.22,ease:"power2.out"},34.07);
+      tl.fromTo("#p17w4",{opacity:0,scale:1.8,y:10},{opacity:1,scale:1,y:0,duration:0.32,ease:"back.out(2.2)"},34.24);
+      tl.fromTo("#p17w5",{opacity:0,scale:1.8,y:10},{opacity:1,scale:1,y:0,duration:0.32,ease:"back.out(2.2)"},34.36);
+      tl.fromTo("#p17w6",{opacity:0,y:26},{opacity:1,y:0,duration:0.22,ease:"power2.out"},34.46);
+      tl.fromTo("#p17w7",{opacity:0,y:26},{opacity:1,y:0,duration:0.22,ease:"power2.out"},34.62);
       tl.fromTo("#cd0",{opacity:0,y:80,scale:0.85},{opacity:1,y:0,scale:1,duration:0.45,ease:"back.out(1.7)"},3.6);
       tl.fromTo("#cd1",{opacity:0,y:80,scale:0.85},{opacity:1,y:0,scale:1,duration:0.45,ease:"back.out(1.7)"},6.91);
       tl.fromTo("#cd2",{opacity:0,y:80,scale:0.85},{opacity:1,y:0,scale:1,duration:0.45,ease:"back.out(1.7)"},11.9);

diff --git a/videos/advizr-ai-day01/kin2.css b/videos/advizr-ai-day01/kin2.css
@@ -12,16 +12,16 @@
       .grain { position: absolute; inset: 0; opacity: 0.25; background-image: radial-gradient(rgba(0,0,0,0.035) 1px, transparent 1.4px); background-size: 5px 5px; }
       .pill { position: absolute; left: 50%; top: 150px; transform: translateX(-50%); padding: 12px 28px; border-radius: 40px; background: #fff; box-shadow: 0 10px 30px rgba(0,0,0,0.08); font-weight: 900; font-size: 32px; color: var(--navy); white-space: nowrap; z-index: 5; }
       .pill b { color: var(--acc); }
-      .tb { position: absolute; left: 60px; right: 60px; top: 470px; height: 560px; display: flex; flex-wrap: wrap; align-content: center; justify-content: center; align-items: baseline; column-gap: 18px; row-gap: 4px; text-align: center; z-index: 4; }
-      .tb .w { display: inline-block; font-weight: 800; font-size: 64px; line-height: 1.12; color: var(--ink); }
-      .tb .w.k { font-weight: 900; font-size: 112px; line-height: 1.02; color: var(--acc); letter-spacing: -2px; text-shadow: 0 6px 0 rgba(7,132,191,0.12), 0 14px 30px rgba(0,0,0,0.08); }
+      .tb { position: absolute; left: 50px; right: 50px; top: 480px; height: 580px; display: flex; flex-wrap: wrap; align-content: center; justify-content: center; align-items: baseline; column-gap: 28px; row-gap: 22px; text-align: center; z-index: 4; }
+      .tb .w { display: inline-block; font-weight: 800; font-size: 62px; line-height: 1.3; letter-spacing: 0.5px; color: var(--ink); }
+      .tb .w.k { font-weight: 900; font-size: 104px; line-height: 1.15; color: var(--acc); letter-spacing: 1px; text-shadow: 0 6px 0 rgba(7,132,191,0.12), 0 14px 30px rgba(0,0,0,0.08); }
       .tb.r .w.k { color: var(--org); text-shadow: 0 6px 0 rgba(201,88,26,0.14), 0 14px 30px rgba(0,0,0,0.08); }
       .tb .w.k.n { color: var(--navy); text-shadow: 0 6px 0 rgba(11,27,58,0.1), 0 14px 30px rgba(0,0,0,0.08); }
       .tb .w.k.g { color: var(--green); }
-      .who { position: absolute; left: 50%; top: 400px; transform: translateX(-50%); padding: 8px 22px; border-radius: 30px; font-weight: 900; font-size: 28px; letter-spacing: 3px; z-index: 5; white-space: nowrap; }
+      .who { position: absolute; left: 50%; top: 380px; transform: translateX(-50%); padding: 8px 22px; border-radius: 30px; font-weight: 900; font-size: 28px; letter-spacing: 3px; z-index: 5; white-space: nowrap; }
       .who.r { background: #ffe6d4; color: var(--org); }
       .who.b { background: #d8f1fb; color: var(--acc); }
-      .card { position: absolute; left: 50%; top: 1090px; transform: translateX(-50%); background: #fff; border-radius: 34px; box-shadow: 0 30px 70px rgba(0,0,0,0.12), 0 2px 0 rgba(255,255,255,0.8) inset; padding: 34px 40px; z-index: 3; }
+      .card { position: absolute; left: 50%; top: 1140px; transform: translateX(-50%); background: #fff; border-radius: 34px; box-shadow: 0 30px 70px rgba(0,0,0,0.12), 0 2px 0 rgba(255,255,255,0.8) inset; padding: 34px 40px; z-index: 3; }
       .ct { text-align: center; }
       .ct .s { font-weight: 800; font-size: 32px; color: #6b7280; letter-spacing: 2px; }
       .ct .t { font-weight: 900; font-size: 92px; color: var(--navy); line-height: 1.05; }
